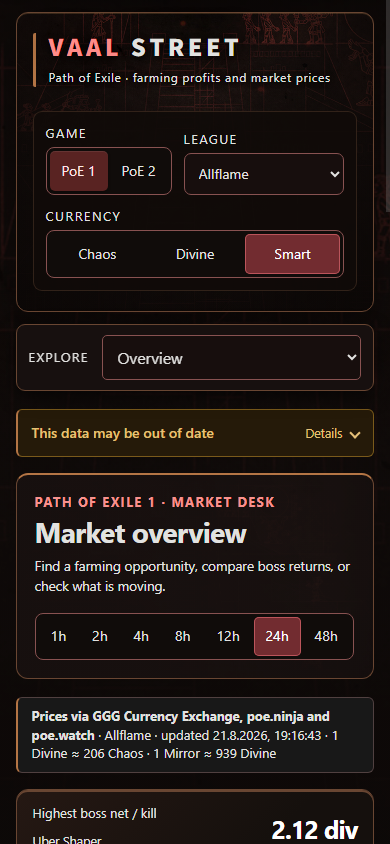
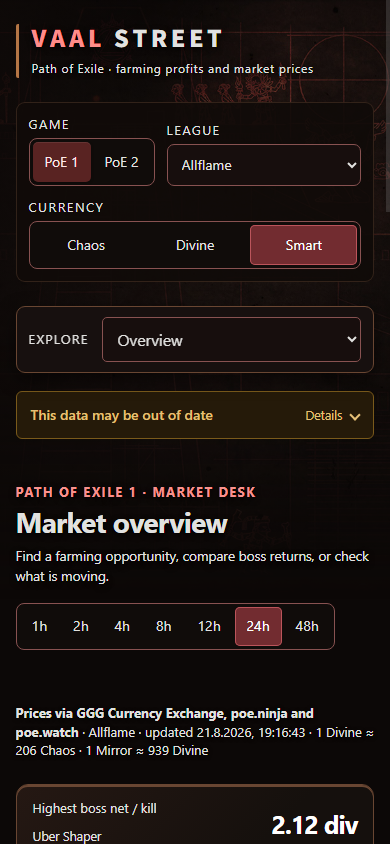
art ui

diff --git a/src/shared/ui/app-shell.css b/src/shared/ui/app-shell.css
@@ -355,24 +355,38 @@
 @keyframes market-loading { to { opacity: .45; } }
 @media (max-width: 600px) { .app-loading-preview { grid-template-columns: 1fr; }.app-loading-preview > div:not(:first-child) { display: none; } }
 
-/* Game-owned artwork decorates the shell; data surfaces remain solid. */
+/* One continuous artwork layer, never cropped separately into UI panels. */
 .app-shell-page.app-art-theme {
-  background: linear-gradient(180deg, #0c0807a8, #0c0807ed 700px, #0c0807 1250px),
-    var(--app-art) center top / auto 1250px no-repeat, #0c0807;
+  position: relative;
+  isolation: isolate;
+  background: #0c0807;
+}
+.app-art-theme::before {
+  content: "";
+  position: absolute;
+  z-index: -1;
+  pointer-events: none;
+  inset: 0 0 auto;
+  aspect-ratio: var(--app-art-ratio);
+  background: linear-gradient(90deg, #0c0807d9, #0c080773 45%, #0c080733 75%, #0c080780),
+    var(--app-art) center top / 100% auto no-repeat;
+  mask-image: linear-gradient(#000 55%, transparent 100%);
 }
 .app-art-theme .app-header {
-  min-height: var(--app-art-height, 154px);
-  padding: 26px;
-  align-items: flex-end;
-  border-color: var(--app-art-border);
-  background: linear-gradient(90deg, #0b0706c9, #0b07061a 48%, #0b0706b8),
-    linear-gradient(0deg, #0b0706c9, transparent 85%),
-    var(--app-art) var(--app-art-position) / cover no-repeat;
-  box-shadow: inset 0 1px #d89f6033, 0 16px 40px #0005;
+  min-height: 70px;
+  padding: 8px 0;
+  margin-bottom: 12px;
+  justify-content: flex-start;
+  gap: 24px 40px;
+  align-items: center;
+  border: 0;
+  border-radius: 0;
+  background: transparent;
+  box-shadow: none;
   backdrop-filter: none;
 }
 .app-art-theme .app-brand { border-left-color: var(--app-art-tint); }
-.app-art-theme .app-brand h1 { text-shadow: 0 2px 6px #000, 0 0 30px #000; }
+.app-art-theme .app-brand h1 { text-shadow: 0 2px 6px #000; }
 .app-art-theme .app-brand-subtitle { text-shadow: 0 1px 5px #000; }
 .app-art-theme .app-header-controls {
   box-sizing: border-box;
@@ -383,8 +397,7 @@
 }
 .app-art-theme .app-tabs {
   border-color: var(--app-art-border);
-  background: linear-gradient(180deg, #110c0bef, #110c0bdb),
-    var(--app-art) center / auto 1400px no-repeat;
+  background: #110c0bf2;
 }
 .app-art-theme .app-sidebar-heading { color: #e4b891; }
 .app-art-theme .app-tabs > button.on {
@@ -392,22 +405,35 @@
   box-shadow: inset 3px 0 var(--app-art-tint), inset 0 0 0 1px var(--app-art-border);
 }
 .app-art-theme .overview-heading {
-  border-color: var(--app-art-border);
-  border-top: 2px solid var(--app-art-tint);
-  background: linear-gradient(90deg, #17100ffa 35%, #17100fd9),
-    var(--app-art) center 65% / cover no-repeat;
+  padding: 20px 0;
+  margin-bottom: 8px;
+  justify-content: flex-start;
+  gap: 20px 32px;
+  border: 0;
+  border-radius: 0;
+  background: transparent;
+  box-shadow: none;
+  text-shadow: 0 2px 6px #000;
 }
 .app-art-theme .overview-stat {
   border-color: var(--app-art-border);
   background: linear-gradient(135deg, #251813, #15100d 70%);
   box-shadow: inset 0 2px var(--app-art-border);
 }
-.app-art-theme .app-source-strip { border-left: 2px solid var(--app-art-tint); }
+.app-art-theme .overview-provenance .app-source-strip {
+  padding: 8px 0;
+  border: 0;
+  border-radius: 0;
+  background: transparent;
+  text-shadow: 0 1px 4px #000;
+}
 .app-art-theme .p2-art-credit a { color: inherit; text-decoration-color: var(--app-art-tint); text-underline-offset: 4px; }
 @media (max-width: 720px) {
-  .app-art-theme .app-header { min-height: 180px; padding: 20px 16px; gap: 24px; align-items: stretch; background-size: auto, auto, auto 160%; }
+  .app-art-theme::before { height: 600px; aspect-ratio: auto; background-size: auto, auto 600px; background-position: center, 60% top; }
+  .app-art-theme .app-header { min-height: 0; padding: 12px 0; gap: 24px; align-items: stretch; }
   .app-art-theme .app-header-controls { width: 100%; min-width: 0; padding: 12px; gap: 12px; }
   .app-art-theme .app-header-controls > * { min-width: 0; }
   .app-art-theme .app-control select { min-width: 0; max-width: 100%; }
+  .app-art-theme .overview-heading { padding: 16px 0; }
   .app-art-theme .app-tabs { background: #17100f; }
 }

diff --git a/src/games/poe1/Poe1App.jsx b/src/games/poe1/Poe1App.jsx
@@ -1572,8 +1572,7 @@ const css = `
 }
 .st-root {
   --app-art: url("${new URL(import.meta.env.BASE_URL + "assets/poe1-incursion.jpg", document.baseURI).href}");
-  --app-art-position: center 38%;
-  --app-art-height: clamp(280px, 25vw, 460px);
+  --app-art-ratio: 1920 / 940;
   --app-art-tint: #b47545;
   --app-art-border: #694632;
   overflow-x: hidden;

diff --git a/src/games/poe2/Poe2App.jsx b/src/games/poe2/Poe2App.jsx
@@ -211,7 +211,7 @@ body { margin:0; background:#090605; }
 button,select,input { font-family:inherit; }
 .p2-root {
   --app-art: url("${new URL(import.meta.env.BASE_URL + "assets/poe2-atziri-chamber.jpg", document.baseURI).href}");
-  --app-art-position: center 54%;
+  --app-art-ratio: 16 / 9;
   --app-art-tint: #d8664e;
   --app-art-border: #713c31;
 }

diff --git a/docs/architecture.md b/docs/architecture.md
@@ -1144,20 +1144,17 @@ The shared `AppTabs` desktop sidebar collapses into square initial buttons (O, P
 BP, etc.), retaining navigation, full accessible names and hover titles. Its boolean
 preference uses `vaal-street.shared.sidebar-collapsed.v1`; compact navigation
 ignores the collapsed state so all views remain reachable on smaller screens.
-Each game shell supplies its artwork URL, crop and accent through `--app-art*`
-variables. The shared `.app-art-theme` treatment carries it through the banner,
-page backdrop, sidebar and overview heading; prices and charts retain solid
-reading surfaces. PoE 1 uses the Vaal mural from
+Each game shell supplies its artwork URL, aspect ratio and accent through `--app-art*`
+variables. The shared `.app-art-theme::before` renders one continuous page backdrop, preserving the original aspect ratio on desktop and fading into the page. Headers and overview headings are transparent; artwork is never repeated inside panels. Prices and charts retain solid reading surfaces. PoE 1 uses the Vaal mural from
 [GGG Incursion](https://www.pathofexile.com/incursion). PoE 2 uses Atziri's Chamber
 by Roman Kuprianov from the
 [GGG Fate of the Vaal showcase](https://www.pathofexile.com/forum/view-thread/3907125).
 Both originals are stored under `public/assets/` and credited in their game footer.
 Artwork URLs are resolved against `document.baseURI` before entering CSS custom properties, so the built stylesheet cannot resolve them relative to its own `assets/` directory.
-PoE 1 uses a taller responsive banner to reveal more of the Incursion mural. Mobile headers wrap controls below the brand without fixed backgrounds or animation.
+Both games use compact headers over the page artwork. Mobile headers wrap controls below the brand; the decorative layer has a fixed 600px height without affecting page width, scroll position or interaction.
 
 Supporting text uses near-white neutrals across tables, captions and controls;
-CSS captions use at least 12.5px. Reading surfaces are opaque; artwork in headers has dark contrast overlays;
-source strips have opaque backgrounds for consistent readability.
+CSS captions use at least 12.5px. Reading surfaces are opaque. A dark gradient and text shadows preserve contrast over the artwork. Overview source information is unboxed; other source strips retain opaque backgrounds.
 Shared controls use visible Vaal-red borders, explicit active navigation and keyboard
 focus states. Overview cards emphasize values and full-width tool actions; mobile
 summary cards stack below 720px. Transitions respect reduced-motion preferences.

diff --git a/docs/daily-recap/2026-09-24.md b/docs/daily-recap/2026-09-24.md
@@ -1,6 +1,7 @@
 # 2026-09-24
 
-## 18:26 — Artwork layout verification
+## 19:09 — Integrated artwork
 
-- PoE 1 has a taller responsive mural banner. Both overview source strips sit below the artwork-backed heading, before the summary cards.
-- Verified the production preview on desktop and mobile; npm test, npm run build and npm run validate passed.
+- Both games use one continuous artwork backdrop, fading into the page. Removed separate artwork crops and frames from the header, sidebar and overview heading; restored compact headers.
+- Tightened header and overview spacing; game controls and time-window controls sit beside their titles instead of spreading to opposite edges. Overview source information remains below the heading as unboxed text. Data cards remain solid for readability.
+- Verified production layouts at 1440px and 2560px (collapsed sidebar), plus 390px mobile. Both images load successfully; npm test, npm run build and npm run validate pass.
